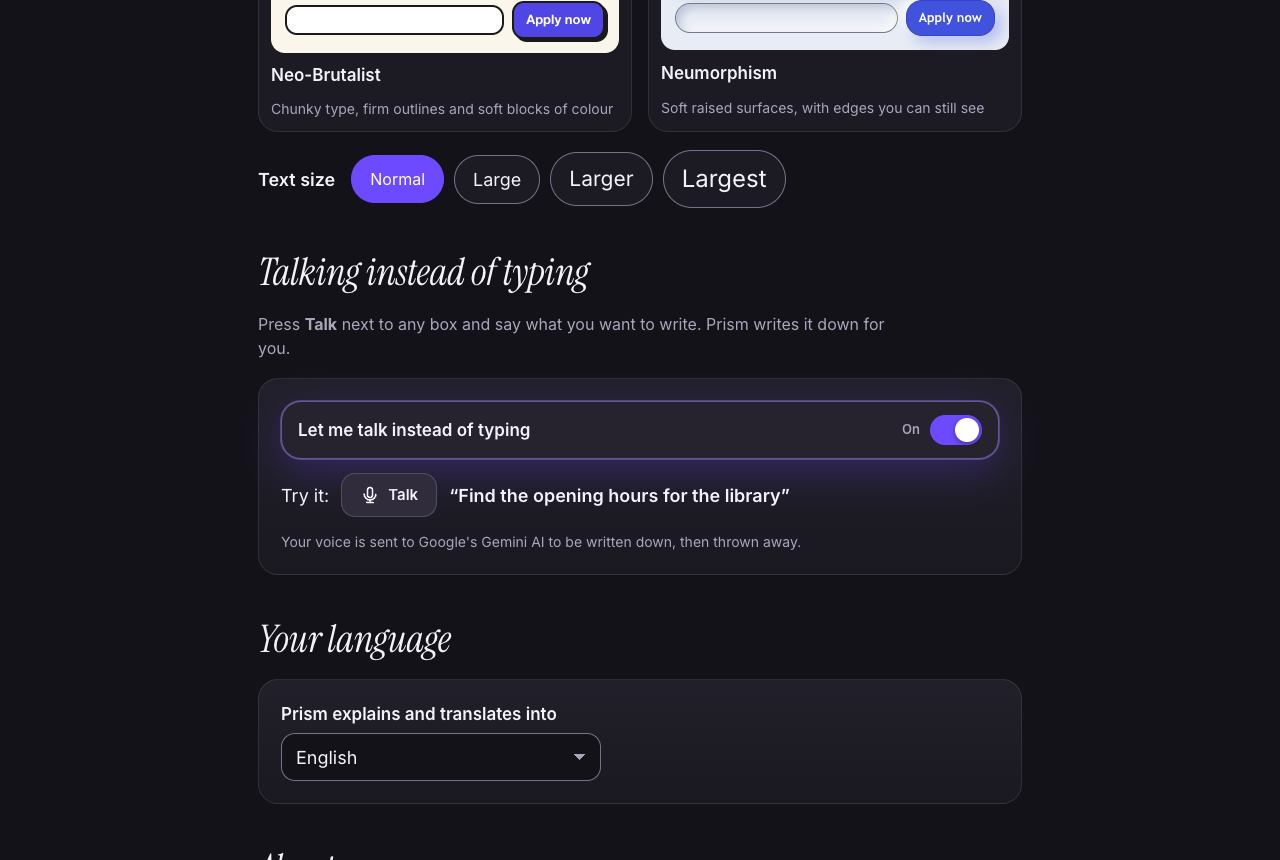
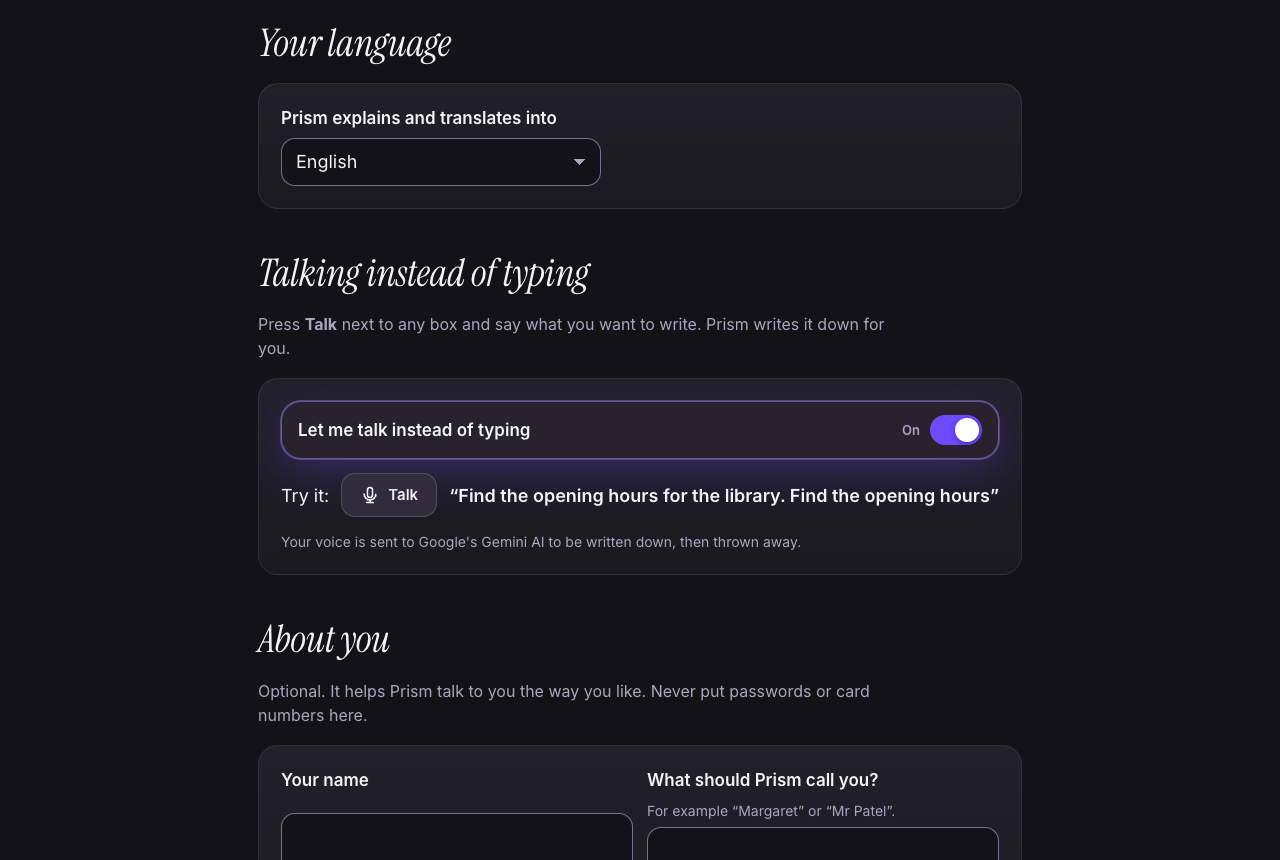
Settings down to five sections; release build minified and zod removed from page code (content.js 1.05 MB -> 176 KB)

diff --git a/extension/src/options/main.tsx b/extension/src/options/main.tsx
@@ -7,26 +7,22 @@ import {
 } from "../shared/storage";
 import { STYLE_ORDER, STYLES } from "../shared/styles";
 import type { CachedPlan, Person, PersonDetails, Profile, Settings, SitePrefs, StyleId } from "../shared/types";
-import { allowMicrophone, Brand, Icon, isMac, MicButton, Notice, Switch } from "../ui/components";
+import { allowMicrophone, Brand, Icon, MicButton, Notice, Switch } from "../ui/components";
 import { ImportSection } from "./imports";
 import { MiniPreview } from "./preview";
 
-// Sections that live inside "More settings": a link straight to one of them opens it.
-const MORE = ["tidying", "pointing", "import", "reading", "privacy", "service", "more"];
 
 export const LANGUAGES = ["English", "Spanish", "French", "German", "Italian", "Portuguese", "Polish", "Ukrainian", "Russian", "Turkish", "Arabic", "Urdu", "Hindi", "Bengali", "Punjabi", "Chinese (Simplified)", "Chinese (Traditional)", "Vietnamese", "Korean", "Japanese", "Tagalog"];
 
 function Settings() {
   const [settings, setSettings] = useState<Settings | null>(null);
   const [profile, setProfile] = useState<Profile | null>(null);
-  const [moreOpen, setMoreOpen] = useState(MORE.includes(location.hash.slice(1)));
 
   useEffect(() => {
     getSettings().then(setSettings);
     getProfile().then(setProfile);
     const go = () => {
       const id = location.hash.slice(1);
-      if (MORE.includes(id)) setMoreOpen(true);
       if (id) setTimeout(() => document.getElementById(id)?.scrollIntoView(), 50);
     };
     addEventListener("hashchange", go);
@@ -45,20 +41,12 @@ function Settings() {
       </header>
       <div class="simple-settings">
         <StyleSection settings={settings} update={update} />
-        <DictationSection settings={settings} update={update} />
         <LanguageSection settings={settings} update={update} />
+        <DictationSection settings={settings} update={update} />
         <AboutSection profile={profile} onSaved={setProfile} />
-        <details id="more" class="more-settings" open={moreOpen} onToggle={(e) => setMoreOpen((e.target as HTMLDetailsElement).open)}>
-          <summary data-testid="more-settings">More settings</summary>
-          <div class="more-settings__body">
-            <TidyingSection settings={settings} update={update} />
-            <PointingSection settings={settings} update={update} />
-            <ReadingSection settings={settings} update={update} />
-            <ImportSection profile={profile} onSaved={setProfile} />
-            <PrivacySection onCleared={async () => { setProfile(await getProfile()); setSettings(await getSettings()); }} />
-            <ServiceSection settings={settings} update={update} />
-          </div>
-        </details>
+        <DataSection onCleared={async () => { setProfile(await getProfile()); setSettings(await getSettings()); }} />
+        {/* For developers only: reached by opening options.html#service. */}
+        {location.hash === "#service" && <ServiceSection settings={settings} update={update} />}
       </div>
     </main>
   );
@@ -114,109 +102,7 @@ function StyleSection({ settings, update }: { settings: Settings; update: (p: Pa
   );
 }
 
-// ---------- Tidying ----------
 
-function TidyingSection({ settings, update }: { settings: Settings; update: (p: Partial<Settings>) => void }) {
-  const [plans, setPlans] = useState<CachedPlan[]>([]);
-  const [sites, setSites] = useState<[string, SitePrefs][]>([]);
-  const refresh = async () => { setPlans(await listCachedPlans()); setSites(await listSitePrefs()); };
-  useEffect(() => { refresh(); }, []);
-  const always = sites.filter(([, p]) => p.tidy === "always");
-  const never = sites.filter(([, p]) => p.tidy === "never");
-  return (
-    <section id="tidying" class="section" aria-labelledby="tidy-h">
-      <h2 id="tidy-h">Tidying</h2>
-      <div class="group">
-        <h3>When should Prism tidy websites?</h3>
-        <div class="radio-list" role="radiogroup" aria-label="When to tidy">
-          <label class="pz-choice"><input type="radio" name="when" checked={!settings.tidyEverywhere} onChange={() => update({ tidyEverywhere: false })} />
-            <span><strong>Only when I turn it on</strong><br /><span class="pz-hint">Use the Prism button. You can choose websites to tidy automatically.</span></span></label>
-          <label class="pz-choice"><input type="radio" name="when" checked={settings.tidyEverywhere} onChange={() => update({ tidyEverywhere: true })} />
-            <span><strong>On every website</strong><br /><span class="pz-hint">Except websites where you chose “Don't tidy this website”.</span></span></label>
-        </div>
-      </div>
-      <div class="group">
-        <h3>Saved layouts</h3>
-        <p style="margin:0">So a page looks the same each time, Prism remembers how it tidied it ({plans.length} {plans.length === 1 ? "page" : "pages"}). It never saves what you typed into forms, or pictures of pages.</p>
-        {plans.length > 0 && (
-          <table class="simple">
-            <thead><tr><th>Page</th><th>Last used</th><th><span class="pz-sr">Action</span></th></tr></thead>
-            <tbody>
-              {plans.slice(0, 12).map((p) => (
-                <tr>
-                  <td style="overflow-wrap:anywhere">{p.pageKey.replace(/^https?:\/\//, "")}<br /><span class="pz-hint">{p.plan.pagePurpose}</span></td>
-                  <td>{new Date(p.lastUsedAt).toLocaleDateString()}</td>
-                  <td><button class="pz-btn pz-btn--small" type="button" onClick={async () => { await deleteCachedPlans((k) => k === p.pageKey); refresh(); }}>Forget</button></td>
-                </tr>
-              ))}
-            </tbody>
-          </table>
-        )}
-        <div class="row">
-          <button class="pz-btn" type="button" disabled={!plans.length} onClick={async () => { await deleteCachedPlans(() => true); refresh(); }}>Forget all saved layouts</button>
-        </div>
-      </div>
-      {(always.length > 0 || never.length > 0) && (
-        <div class="group">
-          <h3>Your choices for particular websites</h3>
-          <table class="simple">
-            <tbody>
-              {[...always, ...never].map(([origin, p]) => (
-                <tr>
-                  <td>{new URL(origin).host}</td>
-                  <td>{p.tidy === "always" ? "Tidy automatically" : "Never tidy"}</td>
-                  <td><button class="pz-btn pz-btn--small" type="button" onClick={async () => { await saveSitePrefs(origin, { tidy: undefined }); refresh(); }}>Remove</button></td>
-                </tr>
-              ))}
-            </tbody>
-          </table>
-        </div>
-      )}
-    </section>
-  );
-}
-
-// ---------- Pointing ----------
-
-function PointingSection({ settings, update }: { settings: Settings; update: (p: Partial<Settings>) => void }) {
-  const mac = isMac();
-  const [commands, setCommands] = useState<chrome.commands.Command[]>([]);
-  useEffect(() => { chrome.commands.getAll().then(setCommands); }, []);
-  const options: [Settings["shortcut"], string, string][] = [
-    ["alt", mac ? "Hold Option ⌥ and drag" : "Hold Alt and drag", "The simplest. Recommended."],
-    ["shift-alt", mac ? "Hold Shift + Option ⌥ and drag" : "Hold Shift + Alt and drag", "If Option/Alt alone does something else for you."],
-    ["ctrl-shift", mac ? "Hold Control + Shift and drag" : "Hold Ctrl + Shift and drag", "Another alternative."],
-  ];
-  return (
-    <section id="pointing" class="section" aria-labelledby="point-h">
-      <h2 id="point-h">Pointing at things</h2>
-      <p>Draw a box around anything on a web page to get help with it: <strong>Define</strong>, <strong>Translate</strong>, <strong>Fill out</strong>, or <strong>Chat</strong>.</p>
-      <div class="group">
-        <h3>Shortcut</h3>
-        <div class="radio-list" role="radiogroup" aria-label="Selection shortcut">
-          {options.map(([v, label, hint]) => (
-            <label class="pz-choice"><input type="radio" name="shortcut" checked={settings.shortcut === v} onChange={() => update({ shortcut: v })} />
-              <span><strong>{label}</strong><br /><span class="pz-hint">{hint}</span></span></label>
-          ))}
-        </div>
-        <p class="pz-hint" style="margin:0">Press <strong>Esc</strong> at any time to cancel.</p>
-      </div>
-      <div class="group">
-        <h3>If holding keys is hard</h3>
-        <ul style="margin:0;padding-left:20px;display:grid;gap:6px">
-          <li>Click the Prism button in your toolbar, then <strong>Point at something</strong>, and drag without holding any keys.</li>
-          <li>Right-click on a page, selected text, or a picture and choose <strong>Ask Prism about this</strong>.</li>
-          {commands.filter((c) => c.name === "start-selection" || c.name === "open-chat").map((c) => (
-            <li>{c.description}: {c.shortcut ? <kbd>{c.shortcut}</kbd> : <span class="pz-muted">no keyboard shortcut set</span>} (use the arrow keys to move the box and Enter to choose)</li>
-          ))}
-        </ul>
-        <div class="row">
-          <button class="pz-btn pz-btn--small" type="button" onClick={() => chrome.tabs.create({ url: "chrome://extensions/shortcuts" })}>Change keyboard shortcuts</button>
-        </div>
-      </div>
-    </section>
-  );
-}
 
 // ---------- About you ----------
 
@@ -300,7 +186,7 @@ function AboutSection({ profile, onSaved }: { profile: Profile; onSaved: (p: Pro
           <button class="pz-btn" type="button" disabled={!newFact.trim()} onClick={() => { setDraft({ ...draft, extraFacts: [...draft.extraFacts, { id: crypto.randomUUID(), text: newFact.trim(), source: "typed", addedAt: Date.now() }] }); setNewFact(""); }}>Add</button>
         </div>
       </div>
-      <details class="more-about" open={location.hash === "#about"}>
+      <details class="more-about" open={location.hash === "#about" || location.hash === "#import"}>
       <summary>More about you</summary>
       <div class="group"><h3>How Prism should talk to you</h3><DetailsForm value={draft} onChange={(v) => setDraft({ ...draft, ...v })} idPrefix="me" groups={["talk"]} skip={BASIC} /></div>
       <div class="group"><h3>Where you live</h3><DetailsForm value={draft} onChange={(v) => setDraft({ ...draft, ...v })} idPrefix="me" groups={["where"]} skip={BASIC} /></div>
@@ -326,6 +212,7 @@ function AboutSection({ profile, onSaved }: { profile: Profile; onSaved: (p: Pro
         ))}
         <div class="row"><button class="pz-btn" type="button" onClick={addPerson}><Icon name="person" /> Add a person</button></div>
       </div>
+      <ImportSection profile={profile} onSaved={onSaved} />
       </details>
       {dirty && (
         <div class="save-bar">
@@ -387,46 +274,18 @@ function LanguageSection({ settings, update }: { settings: Settings; update: (p:
   );
 }
 
-// ---------- Reading & accessibility ----------
-
-function ReadingSection({ settings, update }: { settings: Settings; update: (p: Partial<Settings>) => void }) {
-  const check = (key: keyof Settings, label: string, hint: string) => (
-    <label class="pz-choice"><input type="checkbox" checked={Boolean(settings[key])} onChange={(e) => update({ [key]: (e.target as HTMLInputElement).checked } as Partial<Settings>)} />
-      <span><strong>{label}</strong><br /><span class="pz-hint">{hint}</span></span></label>
-  );
-  return (
-    <section id="reading" class="section" aria-labelledby="read-h">
-      <h2 id="read-h">Reading</h2>
-      <div class="group">
-        <h3>Explanations</h3>
-        <div class="radio-list" role="radiogroup" aria-label="Explanation detail">
-          {([["simple", "Simply", "Very short sentences, no jargon."], ["normal", "Normally", "Clear and plain."], ["detailed", "In detail", "More background, still plain language."]] as const).map(([v, label, hint]) => (
-            <label class="pz-choice"><input type="radio" name="explain" checked={settings.explainLevel === v} onChange={() => update({ explainLevel: v })} />
-              <span><strong>{label}</strong><br /><span class="pz-hint">{hint}</span></span></label>
-          ))}
-        </div>
-      </div>
-      <div class="group">
-        <h3>Display</h3>
-        <div class="radio-list">
-          {check("extraLegible", "Extra-legible font", "Uses Atkinson Hyperlegible, designed for people with low vision, in every style.")}
-          {check("strongContrast", "Stronger contrast", "Black text, darker borders, no soft shadows.")}
-          {check("underlineLinks", "Underline links", "Makes links easier to spot.")}
-          {check("bigTargets", "Bigger buttons and boxes", "Makes things on tidied pages easier to click.")}
-          <label class="pz-choice"><input type="checkbox" checked={settings.reduceMotion === "on"} onChange={(e) => update({ reduceMotion: (e.target as HTMLInputElement).checked ? "on" : "system" })} />
-            <span><strong>Reduce motion</strong><br /><span class="pz-hint">Turns off animations. Prism already follows your computer's setting.</span></span></label>
-        </div>
-      </div>
-    </section>
-  );
-}
 
 // ---------- Privacy ----------
 
-function PrivacySection({ onCleared }: { onCleared: () => void }) {
+function DataSection({ onCleared }: { onCleared: () => void }) {
+  const [plans, setPlans] = useState<CachedPlan[]>([]);
+  const [sites, setSites] = useState<[string, SitePrefs][]>([]);
   const [view, setView] = useState<string | null>(null);
   const [confirming, setConfirming] = useState(false);
   const [message, setMessage] = useState("");
+  const refresh = async () => { setPlans(await listCachedPlans()); setSites(await listSitePrefs()); };
+  useEffect(() => { refresh(); }, []);
+  const chosen = sites.filter(([, p]) => p.tidy);
   const exportData = async () => {
     const all = await chrome.storage.local.get(null);
     const blob = new Blob([JSON.stringify(all, null, 2)], { type: "application/json" });
@@ -438,32 +297,34 @@ function PrivacySection({ onCleared }: { onCleared: () => void }) {
   };
   return (
     <section id="privacy" class="section" aria-labelledby="priv-h">
-      <h2 id="priv-h">Privacy & your data</h2>
+      <h2 id="priv-h">Your data</h2>
+      <p>Everything Prism knows about you stays in this browser. When you ask for help, only what's needed is sent to Google's Gemini AI, never passwords or card details.</p>
       <div class="group">
-        <h3>What stays on this computer</h3>
-        <p style="margin:0">Your settings, “About you”, the people you help, and saved page layouts are stored only in this browser. Chats are forgotten when you close the tab. Prism never saves what you type into websites, and never saves pictures of pages.</p>
-        <h3>What is sent to the AI</h3>
-        <p style="margin:0">When you ask for help, Prism sends only what that request needs to Google's Gemini AI (Vertex AI), through Prism's service:</p>
-        <ul style="margin:0;padding-left:20px;display:grid;gap:4px">
-          <li><strong>Tidy:</strong> a short outline of the page's headings, buttons and labels — not anything you've typed.</li>
-          <li><strong>Define, Translate, Fill out:</strong> the text and fields in the area you selected, a picture of that area when needed, and the parts of “About you” that are relevant.</li>
-          <li><strong>Chat:</strong> your messages, an outline of the page, and a picture of the screen only if you tick “Include the whole screen”.</li>
-        </ul>
-        <p class="pz-hint" style="margin:0">Google states it does not use this data to train its models. Requests may be kept briefly to run the service and to detect abuse. Passwords and payment details are never read into AI requests.</p>
-      </div>
-      <div class="group">
-        <h3>Your data</h3>
         <div class="row">
-          <button class="pz-btn" type="button" onClick={async () => setView(view ? null : JSON.stringify(await chrome.storage.local.get(["settings", "profile"]), null, 2))}>{view ? "Hide" : "See"} what Prism stores about you</button>
+          <button class="pz-btn" type="button" disabled={!plans.length} onClick={async () => { await deleteCachedPlans(() => true); refresh(); }}>Forget saved page layouts ({plans.length})</button>
+          <button class="pz-btn" type="button" onClick={async () => setView(view ? null : JSON.stringify(await chrome.storage.local.get(["settings", "profile"]), null, 2))}>{view ? "Hide" : "See"} what Prism stores</button>
           <button class="pz-btn" type="button" onClick={exportData}>Download a copy</button>
           {!confirming
             ? <button class="pz-btn pz-btn--danger" type="button" onClick={() => setConfirming(true)}>Delete everything</button>
-            : <span class="row"><strong>Delete all Prism settings, About you, people and saved layouts?</strong>
-                <button class="pz-btn pz-btn--danger" type="button" onClick={async () => { await chrome.storage.local.clear(); await saveSettings({ installId: crypto.randomUUID(), onboarded: true }); setConfirming(false); setMessage("Everything was deleted."); onCleared(); }}>Yes, delete everything</button>
+            : <span class="row"><strong>Delete all Prism settings, About you and saved layouts?</strong>
+                <button class="pz-btn pz-btn--danger" type="button" onClick={async () => { await chrome.storage.local.clear(); await saveSettings({ installId: crypto.randomUUID(), onboarded: true }); setConfirming(false); setMessage("Everything was deleted."); onCleared(); refresh(); }}>Yes, delete everything</button>
                 <button class="pz-btn" type="button" onClick={() => setConfirming(false)}>Cancel</button></span>}
         </div>
         {message && <Notice tone="ok">{message}</Notice>}
         {view && <pre style="margin:0;max-height:320px;overflow:auto;background:var(--pz-bg);padding:14px;border-radius:14px;font-size:13px;border:1px solid var(--pz-line)">{view}</pre>}
+        {chosen.length > 0 && (
+          <table class="simple">
+            <tbody>
+              {chosen.map(([origin, p]) => (
+                <tr>
+                  <td>{new URL(origin).host}</td>
+                  <td>{p.tidy === "always" ? "Tidied automatically" : "Never tidied"}</td>
+                  <td><button class="pz-btn pz-btn--small" type="button" onClick={async () => { await saveSitePrefs(origin, { tidy: undefined }); refresh(); }}>Remove</button></td>
+                </tr>
+              ))}
+            </tbody>
+          </table>
+        )}
       </div>
     </section>
   );

diff --git a/extension/src/content/tidy.ts b/extension/src/content/tidy.ts
@@ -3,7 +3,6 @@
  * and a mutation governor for dynamic pages and SPA route changes.
  */
 import { hash, pageKeyFor } from "../shared/hash";
-import { TidyPlanSchema } from "../shared/schemas";
 import {
   getCachedPlan, getSettings, getSitePrefs, PLAN_VERSION, putCachedPlan, saveSitePrefs, touchCachedPlan,
 } from "../shared/storage";
@@ -381,12 +380,14 @@ export class TidyEngine {
       this.emit({ status: "base", message: `${result?.error?.message ?? "Prism's AI isn't available."} The basic clean-up is still on.` });
       return;
     }
-    const parsed = TidyPlanSchema.safeParse(result.value.plan);
-    if (!parsed.success) {
+    // The service worker validated this plan against TidyPlanSchema (background/api.ts), so page code
+    // doesn't bundle the validator; applyPlan still ignores any id that isn't on the page.
+    const plan = result.value.plan as TidyPlan | undefined;
+    if (!plan || !Array.isArray(plan.roles)) {
       this.emit({ status: "base", message: "Prism kept a simple tidy for this page." });
       return;
     }
-    const applied = this.applyPlan(parsed.data);
+    const applied = this.applyPlan(plan);
     this.planFingerprint = analysis.structureHash;
     const lastPlanMs = Math.round(performance.now() - started);
     if (applied.rejectedRatio > 0.3) {
@@ -397,8 +398,8 @@ export class TidyEngine {
     }
     await putCachedPlan({
       planVersion: PLAN_VERSION, pageKey: this.pageKey, structureHash: analysis.structureHash,
-      idSignature: [...new Set(parsed.data.roles.map((r) => r.id))].slice(0, 300), prefsHash,
-      plan: parsed.data, createdAt: Date.now(), lastUsedAt: Date.now(), hits: 0,
+      idSignature: [...new Set(plan.roles.map((r) => r.id))].slice(0, 300), prefsHash,
+      plan, createdAt: Date.now(), lastUsedAt: Date.now(), hits: 0,
     });
     if (fromScratch) await saveSitePrefs(location.origin, { fromScratch: undefined });
     this.emit({ status: "planned", message: "Tidied by Prism.", lastPlanMs });

diff --git a/tests/e2e/v05.spec.ts b/tests/e2e/v05.spec.ts
@@ -114,17 +114,14 @@ test("Dictation: turned on once in Settings, then works in Settings, Chat and a 
   await expect(page.getByTestId("chat-input")).toHaveValue(/opening hours/i);
 });
 
-test("Settings page is short and simple; the rest is under More settings", async ({ context, extensionId }) => {
+test("Settings page is short and simple: five sections, nothing hidden behind More settings", async ({ context, extensionId }) => {
   const page = await context.newPage();
   await page.goto(`chrome-extension://${extensionId}/options.html`);
   const visibleH2 = await page.locator("h2:visible").allInnerTexts();
-  expect(visibleH2).toEqual(["How pages look", "Talking instead of typing", "Your language", "About you"]);
-  await expect(page.getByRole("heading", { name: "Tidying" })).toBeHidden();
+  expect(visibleH2).toEqual(["How pages look", "Your language", "Talking instead of typing", "About you", "Your data"]);
+  await expect(page.getByTestId("more-settings")).toHaveCount(0);
   await page.screenshot({ path: path.join(OUT, "settings-simple.png"), fullPage: true });
-  await page.getByTestId("more-settings").click();
-  for (const h of ["Tidying", "Pointing at things", "Reading", "Import from ChatGPT or Claude", "Privacy & your data", "Prism service"]) {
-    await expect(page.getByRole("heading", { name: h, exact: true })).toBeVisible();
-  }
+  // Import still reachable, inside "More about you".
   await page.goto(`chrome-extension://${extensionId}/options.html#import`);
   await page.reload();
   await expect(page.getByTestId("paste-chatgpt")).toBeVisible();

diff --git a/extension/src/options/imports.tsx b/extension/src/options/imports.tsx
@@ -82,7 +82,7 @@ export function ImportSection({ onSaved }: { profile: Profile; onSaved: (p: Prof
 
   return (
     <section id="import" class="section" aria-labelledby="import-h">
-      <h2 id="import-h">Import from ChatGPT or Claude</h2>
+      <h3 id="import-h">Import from ChatGPT or Claude</h3>
       <p>If you already use ChatGPT or Claude, you can bring in what they know about you. Prism reads it on this computer, shows you everything it found, and saves only what you choose.</p>
 
       {(stage.kind === "idle" || stage.kind === "saved" || stage.kind === "error") && (

diff --git a/tests/e2e/dynamic.spec.ts b/tests/e2e/dynamic.spec.ts
@@ -1,6 +1,7 @@
-import { expect, FIXTURES, helperCalls, shot, tabMessage, test, tidy, waitForStatus } from "./harness";
+import { expect, FIXTURES, helperCalls, setSettings, shot, tabMessage, test, tidy, waitForStatus } from "./harness";
 
 test("Dynamic app: live updates cause no extra AI calls and no runaway re-analysis", async ({ context, sw }) => {
+  await setSettings(sw, { styleId: "clear" }); // the font check below is Clean Flat's
   const page = await context.newPage();
   await page.goto(`${FIXTURES}/dynamic-app/`);
   await tidy(sw, page);
